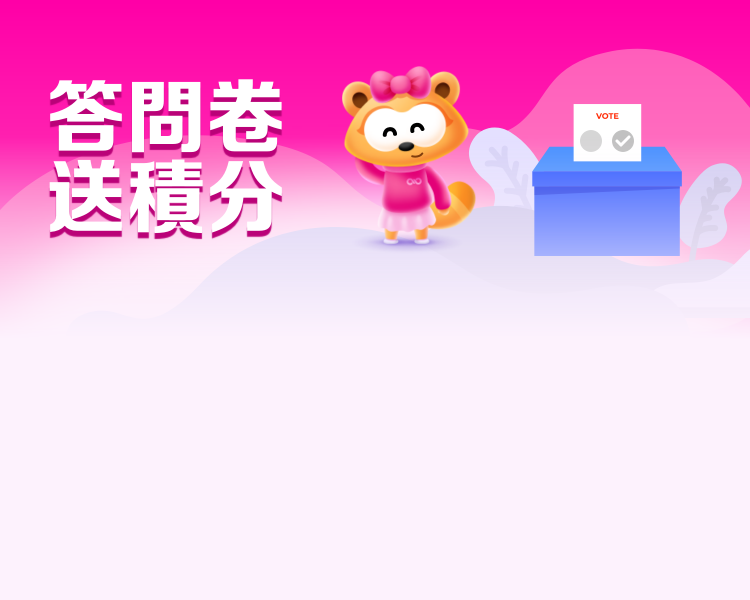
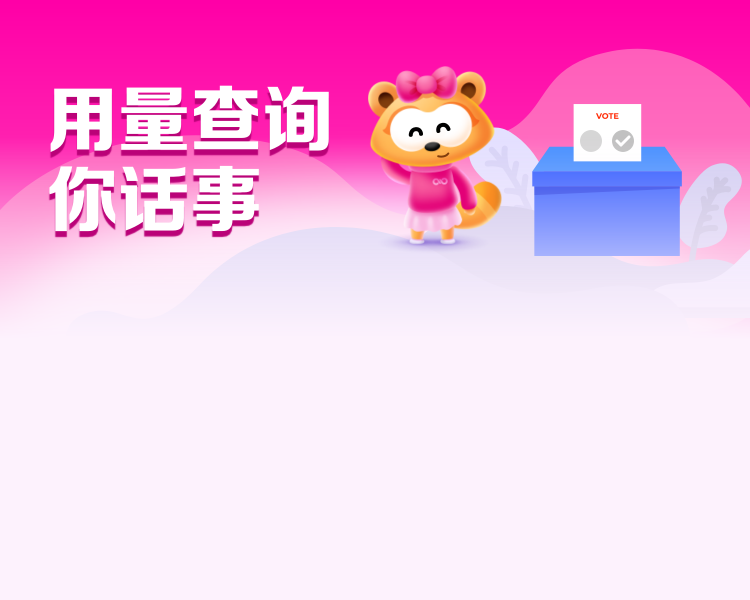
三语言

Changed region(s): [[0.0613, 0.09, 0.6747, 0.42]]

diff --git a/src/views/satisfaction/question/Q-two.vue b/src/views/satisfaction/question/Q-two.vue
@@ -26,10 +26,10 @@
           @change="selectSub"
         >
           <van-checkbox
-            v-for="(item, index) in index.child.questions"
-            :name="item"
+            v-for="(item, index) in index.questions"
+            :name="`选项${index+1}`"
             :key="index"
-          >{{  item }}</van-checkbox>
+          >{{ item }}</van-checkbox>
           <van-checkbox name="input">
             <van-field
               v-model="custom"
@@ -62,50 +62,6 @@ export default {
       Q2: '',
       Q2More: [],
       custom: '',
-      satisfyRadioArr: [
-      {
-        name: this.$t('satisfaction.界面设计'),
-        value: '界面',
-        child: {
-          questions: ['界面设计清晰','界面设计够简洁','排榜整齐', '很时尚']
-        }
-      },
-      {
-        name: this.$t('satisfaction.用户体验'),
-        value: '体验',
-        child: {
-          questions: []
-        }
-      },
-      {
-        name: this.$t('satisfaction.功能服务'),
-        value: '功能',
-        child: {
-          questions: []
-        }
-      }],
-      badRadioArr: [
-      {
-        name: this.$t('satisfaction.界面设计'),
-        value: '界面',
-        child: {
-          questions: ['不满意1','不满意2','不满意3', '不满意4']
-        }
-      },
-      {
-        name: this.$t('satisfaction.用户体验'),
-        value: '体验',
-        child: {
-          questions: []
-        }
-      },
-      {
-        name: this.$t('satisfaction.功能服务'),
-        value: '功能',
-        child: {
-          questions: []
-        }
-      }]
     };
   },
   computed: {
@@ -113,17 +69,29 @@ export default {
       return this.radioArr.find(item => item.value === this.Q2);
     },
     title() {
-      return [1,2,3].includes(this.$bus.Q1Select)?
-      this.$t('satisfaction.不满意_题目2') :
-      this.$t('satisfaction.满意_题目2');
+      return this.$t(`satisfaction.${this.$bus.satisfy? '' : '不'}满意_题目2`);
     },
     subTitle() {
-      return [1,2,3].includes(this.$bus.Q1Select)?
-      this.$t('satisfaction.不满意_多选标题') :
-      this.$t('satisfaction.满意_多选标题');
+      return this.$t(`satisfaction.${this.$bus.satisfy? '' : '不'}满意_多选标题`);
     },
     radioArr() {
-      return [1,2,3].includes(this.$bus.Q1Select)? this.badRadioArr: this.satisfyRadioArr;
+      return [
+        {
+          name: this.$t('satisfaction.界面设计'),
+          value: '界面',
+          questions: this.$t(`satisfaction.${this.$bus.satisfy? '' : '不'}满意多选项.界面`)
+        },
+        {
+          name: this.$t('satisfaction.用户体验'),
+          value: '体验',
+          questions: this.$t(`satisfaction.${this.$bus.satisfy? '' : '不'}满意多选项.体验`)
+        },
+         {
+          name: this.$t('satisfaction.功能服务'),
+          value: '功能',
+          questions: this.$t(`satisfaction.${this.$bus.satisfy? '' : '不'}满意多选项.功能`)
+        }
+      ];
     }
   },
   methods: {
@@ -159,7 +127,7 @@ export default {
     font-size: 28px * $scale;
   }
   .van-checkbox{
-    margin: 30px * $scale 0 30px * $scale 65px * $scale;
+    margin: 30px * $scale 0 30px * $scale 20px * $scale;
   }
   .van-field {
     padding: 0;

diff --git a/src/assets/i18n/en.js b/src/assets/i18n/en.js
@@ -25,6 +25,28 @@ module.exports = {
     '不满意_多选标题': 'Please select the reason for your dissatisfaction:(Multiple Choice)*',
     '满意_多选标题': 'Please select the reason for your dissatisfaction:(Multiple Choice)*',
     '其他': 'Others (if any)',
+    '满意多选项': {
+      '界面': ['MyLink App display inforrmaion clearly，which make the communications service conspicuous and easy to find.',
+              'Abundant information of  promotions can be simply found in the Jetso section of  MyLink App.',
+              'A small red dot is noticeable when MyLink App is trying to let users know new messages or messages about member points.'],
+      '体验': ['Online service on MyLink App is convenient. When you redeem the reward points, it provides delivery service. Or you can also take your reward in the Self-pickup cabinet.',
+              'Novice guidance and multiple ways of login are available on MyLink App, which enable new users  to get started quickly.',
+              'MyLink App provides good customer service with quick response.'],
+      '功能': ['MyLink App provides abundant communications service and hiking activities.',
+              'Points can be easily earned by finishing the tasks published by task center of MyLink App.',
+              'While you are topping up your phone on MyLink App, multiple payment methods, including paying by points, are provided.']
+    },
+    '不满意多选项': {
+      '界面': ['MyLink App is difficult to use,because the interface design is complex with little instructions for its users.',
+              'The font display on MyLink App is nonselectable, which may bring inconvenience when the font size is too large or too small.',
+              'The skins of the interface are not enabled to change on MyLink App.'],
+      '体验': ['Slow loading times and excessive popup ads on MyLink App make users feel upset.',
+              'Your beloved product in the reward mall can only be redeemed by accumulated points even if you want to pay money for it.',
+              'The discounts in the Jetso section is not deep enough while the variety of products available in the reward mall are not satisfiable.'],
+      '功能': ['The pedometer(WeWalk) on MyLink App is not precise enough.',
+              'The personalized video contents on MyLink App is not rich enough.',
+              'The bill shown on MyLink App is presented in a pdf file, and the details of it are not clear enough.']
+    },
   },
   preference: {
     '头部banner': require('../../../static/img/zh/p-banner.png'),

diff --git a/src/assets/i18n/tw.js b/src/assets/i18n/tw.js
@@ -10,7 +10,7 @@ module.exports = {
   '重新填写': '請重新填寫',
   '我的积分': '我的積分',
   satisfaction: {
-    '头部banner': require('../../../static/img/zh/s-banner.png'),
+    '头部banner': require('../../../static/img/tw/s-banner.png'),
     '题目1': '請為MyLink的服務打分：（單選）*',
     '非常不满意': '非常不滿意',
     '不满意': '不滿意',
@@ -25,9 +25,31 @@ module.exports = {
     '不满意_多选标题': '請選擇您不滿意的原因：（可多選）*',
     '满意_多选标题': '請選擇您滿意的原因：（可多選）*',
     '其他': '其他（如有）',
+    '满意多选项': {
+      '界面': ['MyLink信息布局清晰，通訊功能入口顯眼，方便查找',
+              'MyLink著數版塊優惠活動豐富，容易找到新的優惠信息',
+              'MyLink推送新消息/積分消息時，使用小紅點強提示，更加醒目'],
+      '体验': ['MyLink線上業務辦理方便，獎賞兌換支持送貨上門/自取櫃取貨',
+              'MyLink支持多種登錄方式，且有新手指引，新戶易上手',
+              'MyLink有人工客服，響應快服務好'],
+      '功能': ['MyLink通訊功能資訊齊全、行山活動豐富',
+              'MyLink任務中心發布的任務，方便積分賺取',
+              'MyLink繳費增值可以使用積分支付，同時有多種支付方式供選擇']
+    },
+    '不满意多选项': {
+      '界面': ['MyLink界面設計復雜，指示不清晰，無法準確操作',
+              'MyLink字體顯示不支持調整，會有字體過大/過小問題',
+              'MyLink設計不支持切換皮膚功能'],
+      '体验': ['MyLink加載時間慢、營銷活動推廣彈窗過多，影響使用心情',
+              'MyLink積分商城積分不夠時不能用錢支付，無法兌換到喜歡的獎賞',
+              'MyLink著數版塊商戶優惠力度小、積分商城產品兌換種類少'],
+      '功能': ['MyLink WeWalk計步不準確',
+              'MyLink個性視頻內容不夠豐富',
+              'MyLink賬單為pdf格式，明細展示不夠清晰']
+    },
   },
   preference: {
-    '头部banner': require('../../../static/img/zh/p-banner.png'),
+    '头部banner': require('../../../static/img/tw/p-banner.png'),
     '题目': '以下哪款數據用量顯示方式您認為更清晰？（單選）*',
     '选项1题目': '顯示剩餘用量',
     '选项2题目': '顯示已使用用量',

diff --git a/src/assets/i18n/zh.js b/src/assets/i18n/zh.js
@@ -25,6 +25,28 @@ module.exports = {
     '不满意_多选标题': '请选择您不满意的原因：（可多选）*',
     '满意_多选标题': '请选择您满意的原因：（可多选）*',
     '其他': '其他（如有）',
+    '满意多选项': {
+      '界面': ['MyLink信息布局清晰，通讯功能入口显眼，方便查找',
+              'MyLink着数版块优惠活动丰富，容易找到新的优惠信息',
+              'MyLink推送新消息/积分消息时，使用小红点强提示，更加醒目'],
+      '体验': ['MyLink线上业务办理方便，奖赏兑换支持送货上门/自取柜取货',
+              'MyLink支持多种登录方式，且有新手指引，新户易上手',
+              'MyLink有人工客服，响应快服务好'],
+      '功能': ['MyLink通讯功能资讯齐全、行山活动丰富',
+              'MyLink任务中心发布的任务，方便积分赚取',
+              'MyLink缴费增值可以使用积分支付，同时有多种支付方式供选择']
+    },
+    '不满意多选项': {
+      '界面': ['MyLink界面设计复杂，指示不清晰，无法准确操作',
+              'MyLink字体显示不支持调整，会有字体过大/过小问题',
+              'MyLink设计不支持切换皮肤功能'],
+      '体验': ['MyLink加载时间慢、营销活动推广弹窗过多，影响使用心情',
+              'MyLink积分商城积分不够时不能用钱支付，无法兑换到喜欢的奖赏',
+              'MyLink着数版块商户优惠力度小、积分商城产品兑换种类少'],
+      '功能': ['MyLink WeWalk计步不准确',
+              'MyLink个性视频内容不够丰富',
+              'MyLink账单为pdf格式，明细展示不够清晰']
+    },
   },
   preference: {
     '头部banner': require('../../../static/img/zh/p-banner.png'),

diff --git a/src/views/satisfaction/index.vue b/src/views/satisfaction/index.vue
@@ -75,11 +75,13 @@ export default {
         type: "" // 类别：界面、体验、功能
       },
       status: '',
-      msg: ''
+      msg: '',
+      isRepeat: false,
     };
   },
   created() {},
   mounted() {
+    window.setWebViewFlag = () => {};
   },
   methods: {
     // 题目一
@@ -94,7 +96,8 @@ export default {
     // 多选
     selectSub(val){
       if(val.length) {
-        this.submitParam.content = val.filter(item => item !== 'input').join(',');
+        let temp = val.filter(item => item !== 'input');
+        this.submitParam.content = JSON.stringify(temp);
         this.disabled = false;
       } else {
         this.disabled = true;
@@ -120,6 +123,10 @@ export default {
     // 提交结果页按钮点击
     statusClick() {
       if(this.status === 'fail') {
+        if(this.isRepeat) {
+          this.toMyPoints();
+          return;
+        }
         // 失败时，返回答题页
         this.toResult = false;
         this.active = 1;
@@ -139,9 +146,14 @@ export default {
           this.msg = `100 ${this.$t('发送积分')}`;
         } else {
           this.status  = 'fail';
-          this.statusText = this.$t('重新填写');
           this.msg = this.languageType === 'sc' ? res.msg :
           this.languageType === 'tc' ? res.msgTw : res.msgEn;
+          if(+res.code === 1081) {
+            this.isRepeat = true;
+            this.statusText = this.$t('我的积分');
+          } else {
+            this.statusText = this.$t('重新填写');
+          }
         }
         this.toResult = true;
       })

diff --git a/src/router/index.js b/src/router/index.js
@@ -12,9 +12,9 @@ const routes = [
         name: "satisfaction",
         component: Satisfaction,
         meta: {
-            titleZh: "MyLink 问卷调查",
-            titleEn: "MyLink Welcome Offers",
-            titleTw: "MyLink 迎新禮遇",
+            titleZh: "Link你的心声",
+            titleEn: "TBC",
+            titleTw: "Link你的心聲",
         },
     },
     {
@@ -22,9 +22,9 @@ const routes = [
         name: "preference",
         component: Preference,
         meta: {
-            titleZh: "MyLink 迎新礼遇",
-            titleEn: "MyLink Welcome Offers",
-            titleTw: "MyLink 迎新禮遇",
+            titleZh: "用量查询你话事",
+            titleEn: "TBC",
+            titleTw: "用量查詢你話事",
         },
     },
 ];

diff --git a/src/utils/bus.js b/src/utils/bus.js
@@ -4,6 +4,12 @@ const install = function (Vue) {
       return {
         Q1Select: '',
       }
+    },
+    computed: {
+      // 是否是满意
+      satisfy() {
+        return [4,5].includes(this.$bus.Q1Select);
+      }
     }
   })
   Vue.prototype.$bus = Bus;

diff --git a/src/views/preference/index.vue b/src/views/preference/index.vue
@@ -64,9 +64,9 @@ export default {
     vanButton: Button,
     ComStatus
   },
-  created() {
-  },
+  created() {},
   mounted() {
+    window.setWebViewFlag = () => {};
   },
   methods: {
     selectQ1(val) {

diff --git a/src/components/status.vue b/src/components/status.vue
@@ -55,7 +55,7 @@ export default {
     font-size: 0.12rem;
     color: rgba(0, 0, 0, 0.4);
     text-align: center;
-    padding: 0 40px * $scale;
+    padding: 0 60px * $scale;
   }
 }
 </style>
